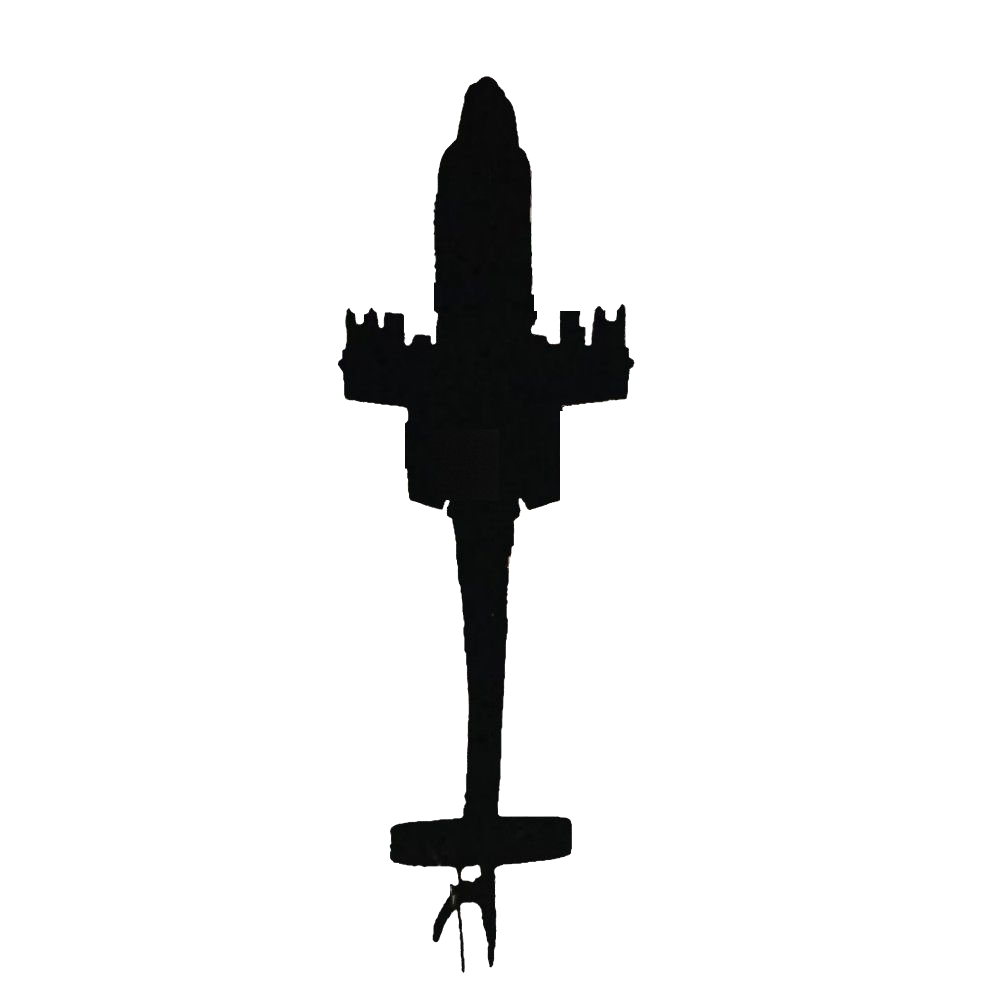
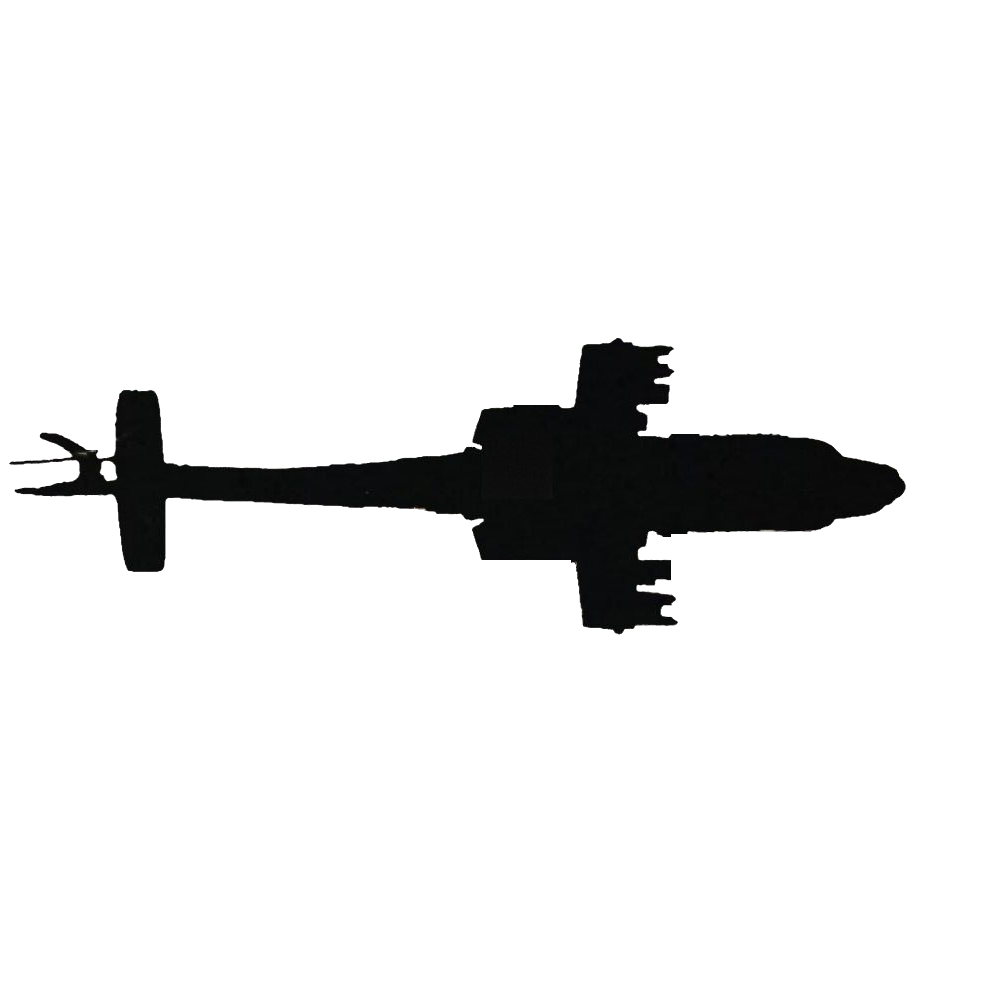
chopper corrections

Changed region(s): [[0.0, 0.0611, 0.9165, 0.9776]]

diff --git a/Airstrike_TS/weaponType.ts b/Airstrike_TS/weaponType.ts
@@ -421,6 +421,27 @@ class Chopper extends ExplosiveWeaponType {
             }
         }, shotGap)
     }
+    protected createFlyover(inst: weaponInstance) {
+        let div = ContentElHandler.returnNewEl(ContentElHandler.returnContentEl(), "flyover");
+        div.classList.add("chopper")
+        let img = document.createElement('img') as HTMLImageElement;
+        let img2 = document.createElement('img') as HTMLImageElement;
+        div.appendChild(img);
+        div.appendChild(img2);
+        img.src = assetsSVGFolder + "chopper_base.png";
+        img2.src = assetsSVGFolder + "chopper_blades.png";
+        img2.className = "rotors"
+        div.style.left = '100vw';
+        div.style.top = inst.blastRadElement ? inst.blastRadElement.style.top : '50vh';
+
+        const pause = this.flyoverInfo.delay;
+        const duration = this.flyoverInfo.duration;
+        const startSpeed = 1;
+        const leaveSpeed = startSpeed + 5;
+        setTimeout(() => this.beginMoveInterval(div, startSpeed, duration), 0)
+        setTimeout(() => { this.beginMoveInterval(div, leaveSpeed, duration), RandomSoundGen.playRandomSound(this.sound); }, duration)
+        ContentElHandler.fadeRemoveItem(div, pause + duration * 2, 10);
+    }
 }
 
 class DroneWeaponType extends ExplosiveWeaponType {

diff --git a/Airstrike_TS/weaponType.js b/Airstrike_TS/weaponType.js
@@ -381,6 +381,26 @@ class Chopper extends ExplosiveWeaponType {
             }
         }, shotGap);
     }
+    createFlyover(inst) {
+        let div = ContentElHandler.returnNewEl(ContentElHandler.returnContentEl(), "flyover");
+        div.classList.add("chopper");
+        let img = document.createElement('img');
+        let img2 = document.createElement('img');
+        div.appendChild(img);
+        div.appendChild(img2);
+        img.src = assetsSVGFolder + "chopper_base.png";
+        img2.src = assetsSVGFolder + "chopper_blades.png";
+        img2.className = "rotors";
+        div.style.left = '100vw';
+        div.style.top = inst.blastRadElement ? inst.blastRadElement.style.top : '50vh';
+        const pause = this.flyoverInfo.delay;
+        const duration = this.flyoverInfo.duration;
+        const startSpeed = 1;
+        const leaveSpeed = startSpeed + 5;
+        setTimeout(() => this.beginMoveInterval(div, startSpeed, duration), 0);
+        setTimeout(() => { this.beginMoveInterval(div, leaveSpeed, duration), RandomSoundGen.playRandomSound(this.sound); }, duration);
+        ContentElHandler.fadeRemoveItem(div, pause + duration * 2, 10);
+    }
 }
 class DroneWeaponType extends ExplosiveWeaponType {
     attackLimit = 3;

diff --git a/Airstrike_TS/cssApp.css b/Airstrike_TS/cssApp.css
@@ -339,19 +339,40 @@ img#crater { /*to override the img[src]!*/
     background: radial-gradient(circle, rgba(255, 255, 255, 1) 0%, rgba(255, 255, 255, 0.3) 60%, rgba(255, 255, 255, 0) 100%);
 }
 
-.flyover{
+.flyover {
     position: absolute;
     height: 200px;
     width: 200px;
     transition: transform 3s ease, left 100ms linear;
     opacity: 0.6;
 }
+
+    .flyover.chopper {
+        height: 250px;
+        width: 250px;
+    }
+
     .flyover img {
+        position: absolute;
         height: inherit;
         width: inherit;
         transform: scaleX(-1);
     }
-
+    .flyover .rotors {
+        height: 60%;
+        margin: 20% 8%;
+        width: 60%;
+        /*        margin-left: -20px;*/
+        animation: rotate 0.5s linear infinite
+    }
+@keyframes rotate {
+    0% {
+        transform: rotate(0deg);
+    }
+    100% {
+        transform: rotate(360deg);
+    }
+}
 .show {
     opacity: 1;
 }

diff --git a/Airstrike_TS/types.ts b/Airstrike_TS/types.ts
@@ -419,7 +419,7 @@ const chopperInfo: ExplosiveWeaponInfo = {
     flyover: {
         imageSource: assetsSVGFolder + 'chopper.png',
         speed: 5,
-        duration: 4000,
+        duration: 7000,
         delay: 500
     }
 }

diff --git a/Airstrike_TS/types.js b/Airstrike_TS/types.js
@@ -353,7 +353,7 @@ const chopperInfo = {
     flyover: {
         imageSource: assetsSVGFolder + 'chopper.png',
         speed: 5,
-        duration: 4000,
+        duration: 7000,
         delay: 500
     }
 };
